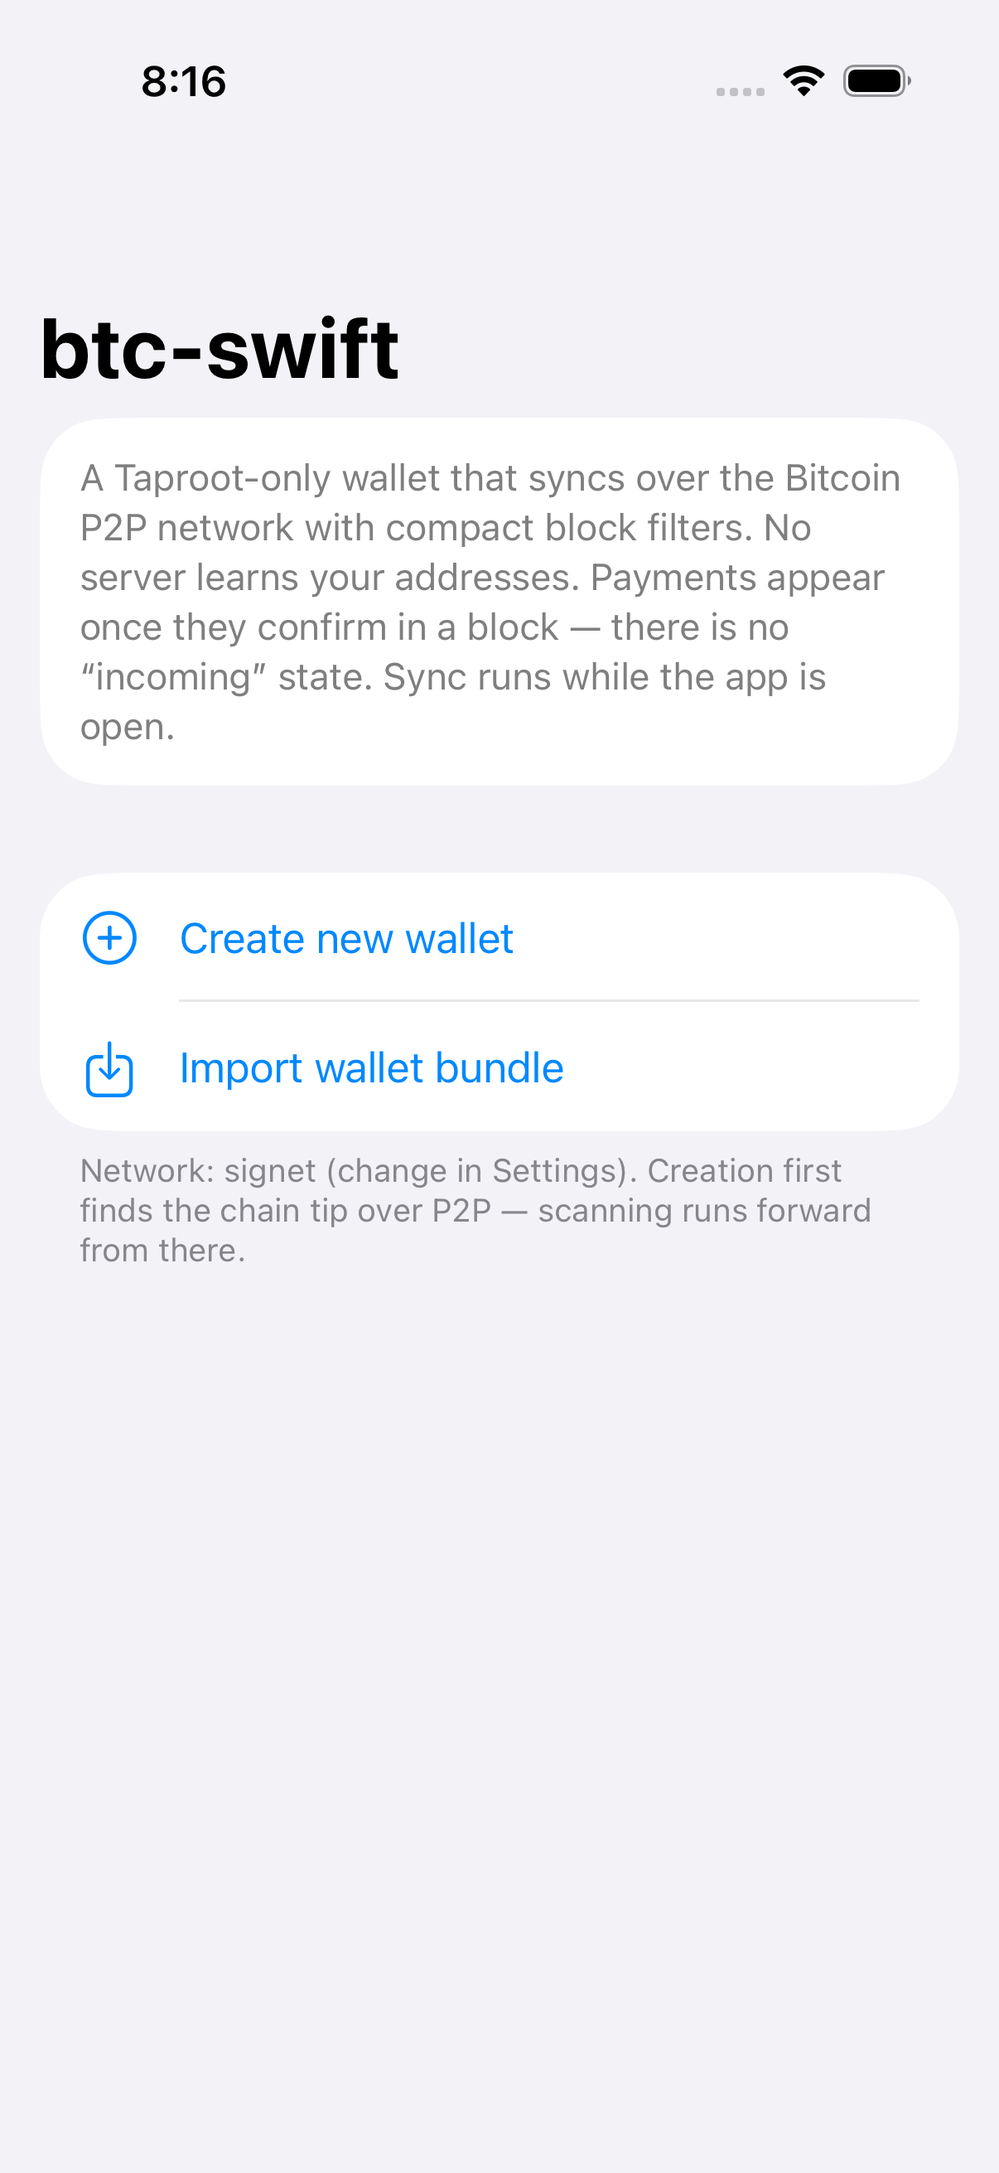
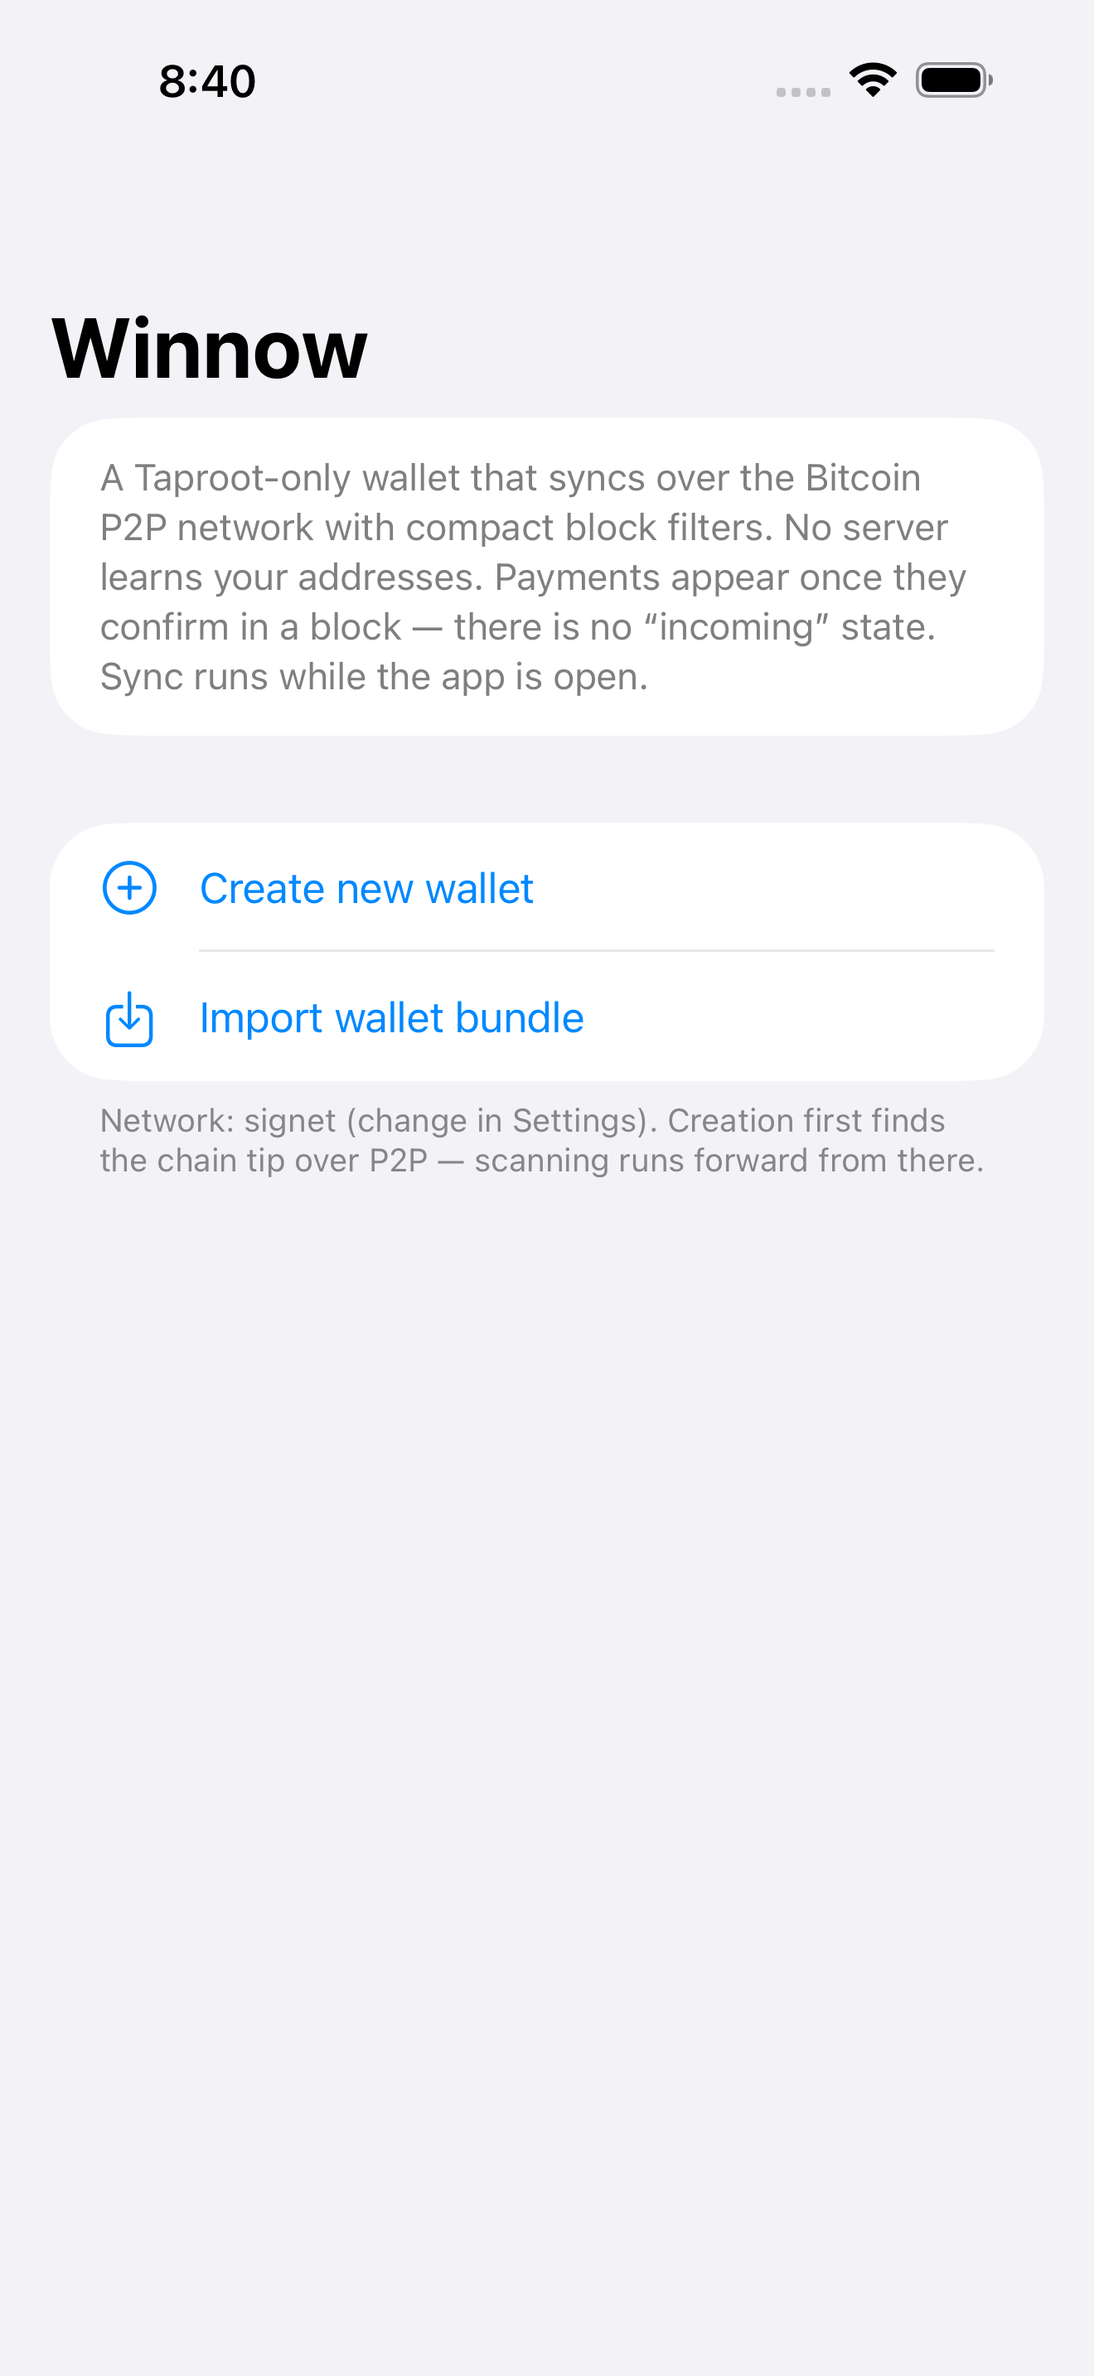
docs: capture 6.9-inch launch evidence

diff --git a/docs/launch-handoff.html b/docs/launch-handoff.html
@@ -1,0 +1,102 @@
+<!DOCTYPE html>
+<html lang="en">
+<head>
+<meta charset="utf-8">
+<meta name="viewport" content="width=device-width, initial-scale=1">
+<title>Winnow</title>
+<style>
+  :root { --bg:#0b0d10; --fg:#e8e6e3; --dim:#9a958c; --acc:#f7931a; --card:#14171c; --line:#262b33; }
+  * { box-sizing:border-box; margin:0; }
+  body { background:var(--bg); color:var(--fg); font:-apple-system/1.65 system-ui, sans-serif; line-height:1.65; }
+  main { max-width:44rem; margin:0 auto; padding:3rem 1.25rem 5rem; }
+  h1, h2, h3 { line-height:1.25; margin:2rem 0 .6rem; letter-spacing:-.01em; }
+  h1 { font-size:1.7rem; margin-top:0; }
+  h2 { font-size:1.25rem; border-top:1px solid var(--line); padding-top:1.4rem; }
+  h3 { font-size:1.05rem; }
+  p, li { color:var(--dim); }
+  p { margin:.6rem 0; }
+  ul, ol { padding-left:1.3rem; }
+  li { margin:.3rem 0; }
+  strong { color:var(--fg); font-weight:600; }
+  em { color:var(--fg); }
+  code { background:var(--card); border:1px solid var(--line); border-radius:.3rem; padding:.05em .35em; font-size:.88em; color:var(--fg); }
+  pre { background:var(--card); border:1px solid var(--line); border-radius:.5rem; padding:.8rem 1rem; overflow-x:auto; margin:.8rem 0; }
+  pre code { background:none; border:0; padding:0; }
+  a { color:var(--acc); }
+  hr { border:0; border-top:1px solid var(--line); margin:2rem 0; }
+  table { border-collapse:collapse; width:100%; font-size:.88rem; margin:1rem 0; }
+  th, td { border:1px solid var(--line); padding:.4rem .55rem; text-align:left; vertical-align:top; }
+  th { color:var(--fg); background:var(--card); }
+  td { color:var(--dim); }
+  blockquote { border-left:3px solid var(--acc); padding-left:1rem; margin:1rem 0; }
+  nav.home { margin-bottom:1.5rem; font-size:.9rem; }
+</style>
+</head>
+<body>
+<main>
+<nav class="home"><a href="/">← Winnow</a></nav>
+<h1 id="v1-launch-handoff">v1 launch handoff</h1>
+<p>Status recorded 2026-08-17. This is a handoff checkpoint, not
+authorization to spend bitcoin, switch the default network, tag v1.0.0,
+upload assets, or submit the app.</p>
+<h2 id="ready-for-review">Ready for review</h2>
+<ul>
+<li>PR #36 prevents stale simulators and
+<code>WinnowAppUITests-Runner</code> processes from surviving the UI leg
+on a self-hosted runner. Local package tests passed, and a controlled
+dummy-runner probe verified both cleanup actions.</li>
+<li>PR #37 adds bundle v2 recovery metadata for silent-payment UTXOs,
+keeps v1 imports readable, and refuses incomplete watch-only export when
+silent-payment funds are present. Package tests passed (263 tests), the
+simulator build succeeded, and recovery is covered through independent
+Schnorr verification.</li>
+<li>The 2026-08-17 iPhone 17 Pro Max signet run passed all 10 UI tests
+and produced 1320 × 2868 screenshots. The App Store-safe candidate
+subset and exclusions are in <code>app-store-screenshots.md</code>.</li>
+<li>The uncontended UI mining sample completed 102 tip wins with zero
+lost races. That supports the existing low-contention observation for
+#28; it does not measure the deliberately contended probability needed
+to close that issue.</li>
+</ul>
+<h2 id="external-ci-blocker">External CI blocker</h2>
+<p>Both PRs depend on the same node-backed check. The runner reaches the
+signet node, but GitHub’s <code>BTC_SWIFT_RPC_COOKIE</code> contains a
+cookie invalidated by the node restart. Local RPC with the node’s
+current cookie succeeds, and the existing <code>miner</code> wallet was
+loaded before the successful UI run. No credential is stored in this
+repository.</p>
+<p>Owner action for #14:</p>
+<ol type="1">
+<li>On <code>alexs-mac-mini</code>, generate a dedicated fixed
+<code>rpcauth</code> username/password and add the generated
+<code>rpcauth=</code> line to
+<code>~/.bitcoin-mysignet/bitcoin.conf</code>.</li>
+<li>Restart the node and run <code>loadwallet miner</code> once.</li>
+<li>Store the matching <code>username:password</code> value in the
+repository secret <code>BTC_SWIFT_RPC_COOKIE</code>.</li>
+<li>Rerun the failed node-backed checks on PRs #36 and #37; merge only
+after they pass.</li>
+</ol>
+<p>Do not paste the live cookie into an issue, pull request, log, or
+tracked file. A fixed credential should be dedicated to CI and rotated
+if exposed.</p>
+<h2 id="owner-gated-launch-sequence">Owner-gated launch sequence</h2>
+<ol type="1">
+<li>Merge #36 and #37 after green node-backed checks.</li>
+<li>Perform #8 exactly as written with a deliberately small real-mainnet
+amount and retain the launch recording. This is the only step here that
+spends real bitcoin.</li>
+<li>If #8 passes, implement #9: make mainnet the default, recheck fee
+presets and peer diversity, and update onboarding copy.</li>
+<li>Recapture the selected 6.9-inch screenshots after #9, confirm that
+no mnemonic or development endpoint is visible, then upload them for
+#6.</li>
+<li>Verify full Xcode execution on the intended self-hosted CI runner
+for #11. Keep #28 open until a deliberately contended mining sample
+sizes the retry bound.</li>
+<li>Only after every gate is green: tag v1.0.0, archive, upload, and
+submit.</li>
+</ol>
+</main>
+</body>
+</html>

diff --git a/docs/app-store-screenshots.html b/docs/app-store-screenshots.html
@@ -1,0 +1,71 @@
+<!DOCTYPE html>
+<html lang="en">
+<head>
+<meta charset="utf-8">
+<meta name="viewport" content="width=device-width, initial-scale=1">
+<title>Winnow</title>
+<style>
+  :root { --bg:#0b0d10; --fg:#e8e6e3; --dim:#9a958c; --acc:#f7931a; --card:#14171c; --line:#262b33; }
+  * { box-sizing:border-box; margin:0; }
+  body { background:var(--bg); color:var(--fg); font:-apple-system/1.65 system-ui, sans-serif; line-height:1.65; }
+  main { max-width:44rem; margin:0 auto; padding:3rem 1.25rem 5rem; }
+  h1, h2, h3 { line-height:1.25; margin:2rem 0 .6rem; letter-spacing:-.01em; }
+  h1 { font-size:1.7rem; margin-top:0; }
+  h2 { font-size:1.25rem; border-top:1px solid var(--line); padding-top:1.4rem; }
+  h3 { font-size:1.05rem; }
+  p, li { color:var(--dim); }
+  p { margin:.6rem 0; }
+  ul, ol { padding-left:1.3rem; }
+  li { margin:.3rem 0; }
+  strong { color:var(--fg); font-weight:600; }
+  em { color:var(--fg); }
+  code { background:var(--card); border:1px solid var(--line); border-radius:.3rem; padding:.05em .35em; font-size:.88em; color:var(--fg); }
+  pre { background:var(--card); border:1px solid var(--line); border-radius:.5rem; padding:.8rem 1rem; overflow-x:auto; margin:.8rem 0; }
+  pre code { background:none; border:0; padding:0; }
+  a { color:var(--acc); }
+  hr { border:0; border-top:1px solid var(--line); margin:2rem 0; }
+  table { border-collapse:collapse; width:100%; font-size:.88rem; margin:1rem 0; }
+  th, td { border:1px solid var(--line); padding:.4rem .55rem; text-align:left; vertical-align:top; }
+  th { color:var(--fg); background:var(--card); }
+  td { color:var(--dim); }
+  blockquote { border-left:3px solid var(--acc); padding-left:1rem; margin:1rem 0; }
+  nav.home { margin-bottom:1.5rem; font-size:.9rem; }
+</style>
+</head>
+<body>
+<main>
+<nav class="home"><a href="/">← Winnow</a></nav>
+<h1 id="app-store-screenshot-candidates">App Store screenshot
+candidates</h1>
+<p>The canonical UI suite was last captured on 2026-08-17 using an
+iPhone 17 Pro Max simulator. Every PNG in <code>screenshots/</code> is
+1320 × 2868 pixels, the 6.9-inch portrait size.</p>
+<p>Use these six files, in this order, as the current upload
+candidates:</p>
+<ol type="1">
+<li><code>01-onboarding.png</code> — product and privacy model</li>
+<li><code>03-receive.png</code> — native Taproot receive flow</li>
+<li><code>05-send-form.png</code> — fee selection without a fee
+server</li>
+<li><code>06-send-review.png</code> — explicit payment review before
+signing</li>
+<li><code>11-vault-list.png</code> — 2-of-3 vault support</li>
+<li><code>15-vault-cosign.png</code> — output-by-output PSBT review</li>
+</ol>
+<p>These are deterministic signet fixtures, not real funds. Recheck the
+set after the mainnet-default change because the onboarding copy
+currently names signet.</p>
+<p>Do not upload <code>02</code>, <code>14</code>, <code>20</code>,
+<code>21</code>, or <code>22</code>: they display the deterministic test
+mnemonic. Do not upload <code>07</code>, <code>08</code>,
+<code>12</code>, or <code>13</code>: they expose development-node or
+service configuration. The remaining captures are engineering evidence,
+not selected store artwork. No App Store upload is performed by the test
+suite.</p>
+<p>Validation command:</p>
+<div class="sourceCode" id="cb1"><pre class="sourceCode sh"><code class="sourceCode bash"><span id="cb1-1"><a href="#cb1-1" aria-hidden="true" tabindex="-1"></a><span class="ex">sips</span> <span class="at">-g</span> pixelWidth <span class="at">-g</span> pixelHeight docs/screenshots/<span class="pp">*</span>.png</span></code></pre></div>
+<p>The producing run executed 10 tests with zero failures. Its measured
+scenario timings are in <code>screenshots/timings.json</code>.</p>
+</main>
+</body>
+</html>

diff --git a/docs/mobile.html b/docs/mobile.html
@@ -267,9 +267,9 @@ covers the stack. The mobile-specific claim — that the <em>app</em> does
 what the libraries promise — is the signet UI suite: it drives the real
 binary, mines to it, spends from it, cosigns a vault, verifies an
 import, and writes the screenshots on this site plus
-<code>screenshots/timings.json</code>. Latest run (iPhone 17 simulator,
-2026-08-15): wallet create 1.78s, address shown 2.17s,
-mined→filter-detected 0.75s, form→broadcast 0.67s.</p>
+<code>screenshots/timings.json</code>. Latest run (iPhone 17 Pro Max
+simulator, 2026-08-17): wallet create 2.74s, address shown 2.16s,
+mined→filter-detected 0.69s, form→broadcast 0.66s.</p>
 <p>The suite is ~200 tests plus those UI scenarios, on every push.</p>
 <hr />
 <h2 id="status">8. Status</h2>

diff --git a/docs/import.html b/docs/import.html
@@ -189,8 +189,9 @@ never left in the spendable set as if the bundle were current.</p>
 of the bundle plus the <code>MatchEffect</code>s of the scanned blocks,
 so it is unit-tested without a network. The e2e suite drives the real
 app through an import and captures the report screen
-(<code>14-import-report.png</code>); latest run spent 15.82s in verify
-(signet, 2026-08-15, <code>screenshots/timings.json</code>).</p>
+(<code>14-import-report.png</code>); latest run spent 18.79s in verify
+(signet, iPhone 17 Pro Max simulator, 2026-08-17,
+<code>screenshots/timings.json</code>).</p>
 <p>Cost is proportional to how stale the bundle is, not to how old the
 wallet is. A bundle exported at the tip is a JSON parse and a
 zero-length scan.</p>

diff --git a/docs/read-side.html b/docs/read-side.html
@@ -222,7 +222,7 @@ apart.</li>
 <li><strong>CPU/battery:</strong> hashing and matching a filter against
 a watch list of thousands of scripts is milliseconds of work per block
 on a modern phone. The signet UI suite measured mined→filter-detected at
-<strong>0.75s</strong> on an iPhone 17 simulator (2026-08-15,
+<strong>0.69s</strong> on an iPhone 17 Pro Max simulator (2026-08-17,
 <code>screenshots/timings.json</code>) — that figure includes
 mining-propagation and the match, not just GCS lookup, and is a
 measurement on signet, not a mainnet bandwidth claim.</li>

diff --git a/docs/launch-handoff.md b/docs/launch-handoff.md
@@ -1,0 +1,32 @@
+# v1 launch handoff
+
+Status recorded 2026-08-17. This is a handoff checkpoint, not authorization to spend bitcoin, switch the default network, tag v1.0.0, upload assets, or submit the app.
+
+## Ready for review
+
+- PR #36 prevents stale simulators and `WinnowAppUITests-Runner` processes from surviving the UI leg on a self-hosted runner. Local package tests passed, and a controlled dummy-runner probe verified both cleanup actions.
+- PR #37 adds bundle v2 recovery metadata for silent-payment UTXOs, keeps v1 imports readable, and refuses incomplete watch-only export when silent-payment funds are present. Package tests passed (263 tests), the simulator build succeeded, and recovery is covered through independent Schnorr verification.
+- The 2026-08-17 iPhone 17 Pro Max signet run passed all 10 UI tests and produced 1320 × 2868 screenshots. The App Store-safe candidate subset and exclusions are in `app-store-screenshots.md`.
+- The uncontended UI mining sample completed 102 tip wins with zero lost races. That supports the existing low-contention observation for #28; it does not measure the deliberately contended probability needed to close that issue.
+
+## External CI blocker
+
+Both PRs depend on the same node-backed check. The runner reaches the signet node, but GitHub's `BTC_SWIFT_RPC_COOKIE` contains a cookie invalidated by the node restart. Local RPC with the node's current cookie succeeds, and the existing `miner` wallet was loaded before the successful UI run. No credential is stored in this repository.
+
+Owner action for #14:
+
+1. On `alexs-mac-mini`, generate a dedicated fixed `rpcauth` username/password and add the generated `rpcauth=` line to `~/.bitcoin-mysignet/bitcoin.conf`.
+2. Restart the node and run `loadwallet miner` once.
+3. Store the matching `username:password` value in the repository secret `BTC_SWIFT_RPC_COOKIE`.
+4. Rerun the failed node-backed checks on PRs #36 and #37; merge only after they pass.
+
+Do not paste the live cookie into an issue, pull request, log, or tracked file. A fixed credential should be dedicated to CI and rotated if exposed.
+
+## Owner-gated launch sequence
+
+1. Merge #36 and #37 after green node-backed checks.
+2. Perform #8 exactly as written with a deliberately small real-mainnet amount and retain the launch recording. This is the only step here that spends real bitcoin.
+3. If #8 passes, implement #9: make mainnet the default, recheck fee presets and peer diversity, and update onboarding copy.
+4. Recapture the selected 6.9-inch screenshots after #9, confirm that no mnemonic or development endpoint is visible, then upload them for #6.
+5. Verify full Xcode execution on the intended self-hosted CI runner for #11. Keep #28 open until a deliberately contended mining sample sizes the retry bound.
+6. Only after every gate is green: tag v1.0.0, archive, upload, and submit.

diff --git a/docs/read-side.md b/docs/read-side.md
@@ -71,7 +71,7 @@ Costs, stated plainly:
 - **Block headers** (needed to know the chain and anchor filter headers): exactly 80 bytes per block — approx. 75 MB for the entire historical chain, and *zero* for a fresh wallet that starts at the tip.
 - **Filters, steady state:** ~144 blocks/day × approx. 15–20 KB ≈ **3 MB/day** (approx.) of filter download. A once-daily app open pulls a few MB — comparable to loading a couple of web pages.
 - **Matched blocks:** only blocks that actually contain the wallet's transactions, ~1–2 MB each (exact: block size varies up to 4M weight units). For typical personal use this is rare — days to weeks apart.
-- **CPU/battery:** hashing and matching a filter against a watch list of thousands of scripts is milliseconds of work per block on a modern phone. The signet UI suite measured mined→filter-detected at **0.75s** on an iPhone 17 simulator (2026-08-15, `screenshots/timings.json`) — that figure includes mining-propagation and the match, not just GCS lookup, and is a measurement on signet, not a mainnet bandwidth claim.
+- **CPU/battery:** hashing and matching a filter against a watch list of thousands of scripts is milliseconds of work per block on a modern phone. The signet UI suite measured mined→filter-detected at **0.69s** on an iPhone 17 Pro Max simulator (2026-08-17, `screenshots/timings.json`) — that figure includes mining-propagation and the match, not just GCS lookup, and is a measurement on signet, not a mainnet bandwidth claim.
 
 ### 2.6 Server-side privacy designs (considered, and why none is the default)
 

diff --git a/docs/app-store-screenshots.md b/docs/app-store-screenshots.md
@@ -1,0 +1,24 @@
+# App Store screenshot candidates
+
+The canonical UI suite was last captured on 2026-08-17 using an iPhone 17 Pro Max simulator. Every PNG in `screenshots/` is 1320 × 2868 pixels, the 6.9-inch portrait size.
+
+Use these six files, in this order, as the current upload candidates:
+
+1. `01-onboarding.png` — product and privacy model
+2. `03-receive.png` — native Taproot receive flow
+3. `05-send-form.png` — fee selection without a fee server
+4. `06-send-review.png` — explicit payment review before signing
+5. `11-vault-list.png` — 2-of-3 vault support
+6. `15-vault-cosign.png` — output-by-output PSBT review
+
+These are deterministic signet fixtures, not real funds. Recheck the set after the mainnet-default change because the onboarding copy currently names signet.
+
+Do not upload `02`, `14`, `20`, `21`, or `22`: they display the deterministic test mnemonic. Do not upload `07`, `08`, `12`, or `13`: they expose development-node or service configuration. The remaining captures are engineering evidence, not selected store artwork. No App Store upload is performed by the test suite.
+
+Validation command:
+
+```sh
+sips -g pixelWidth -g pixelHeight docs/screenshots/*.png
+```
+
+The producing run executed 10 tests with zero failures. Its measured scenario timings are in `screenshots/timings.json`.

diff --git a/docs/import.md b/docs/import.md
@@ -83,7 +83,7 @@ Vaults are not in this bundle. A vault is a separate descriptor the user adds in
 
 `matchesBundle` is `spentSinceBundle.isEmpty`. A stale export (you spent after you wrote the file) is a report the user can see, not a silent rewrite. Discovered UTXOs are applied — the point of the forward scan is to catch up — but a claimed-and-spent coin is never left in the spendable set as if the bundle were current.
 
-The report core (`ImportReport.make`) is a pure function of the bundle plus the `MatchEffect`s of the scanned blocks, so it is unit-tested without a network. The e2e suite drives the real app through an import and captures the report screen (`14-import-report.png`); latest run spent 15.82s in verify (signet, 2026-08-15, `screenshots/timings.json`).
+The report core (`ImportReport.make`) is a pure function of the bundle plus the `MatchEffect`s of the scanned blocks, so it is unit-tested without a network. The e2e suite drives the real app through an import and captures the report screen (`14-import-report.png`); latest run spent 18.79s in verify (signet, iPhone 17 Pro Max simulator, 2026-08-17, `screenshots/timings.json`).
 
 Cost is proportional to how stale the bundle is, not to how old the wallet is. A bundle exported at the tip is a JSON parse and a zero-length scan.
 

diff --git a/docs/mobile.md b/docs/mobile.md
@@ -101,7 +101,7 @@ Each absence has a paper that says what you get instead. The landing page lists 
 
 ## 7. How the implementation is checked
 
-The validation appendix of [the read side](read-side.md) covers the stack. The mobile-specific claim — that the *app* does what the libraries promise — is the signet UI suite: it drives the real binary, mines to it, spends from it, cosigns a vault, verifies an import, and writes the screenshots on this site plus `screenshots/timings.json`. Latest run (iPhone 17 simulator, 2026-08-15): wallet create 1.78s, address shown 2.17s, mined→filter-detected 0.75s, form→broadcast 0.67s.
+The validation appendix of [the read side](read-side.md) covers the stack. The mobile-specific claim — that the *app* does what the libraries promise — is the signet UI suite: it drives the real binary, mines to it, spends from it, cosigns a vault, verifies an import, and writes the screenshots on this site plus `screenshots/timings.json`. Latest run (iPhone 17 Pro Max simulator, 2026-08-17): wallet create 2.74s, address shown 2.16s, mined→filter-detected 0.69s, form→broadcast 0.66s.
 
 The suite is ~200 tests plus those UI scenarios, on every push.
 
